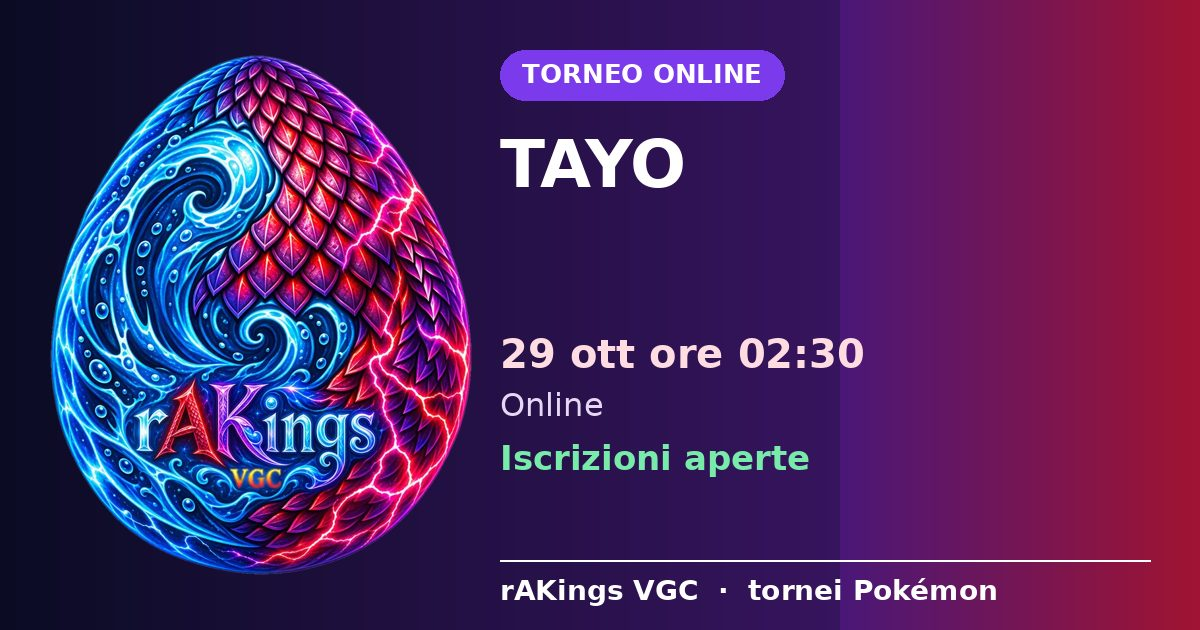
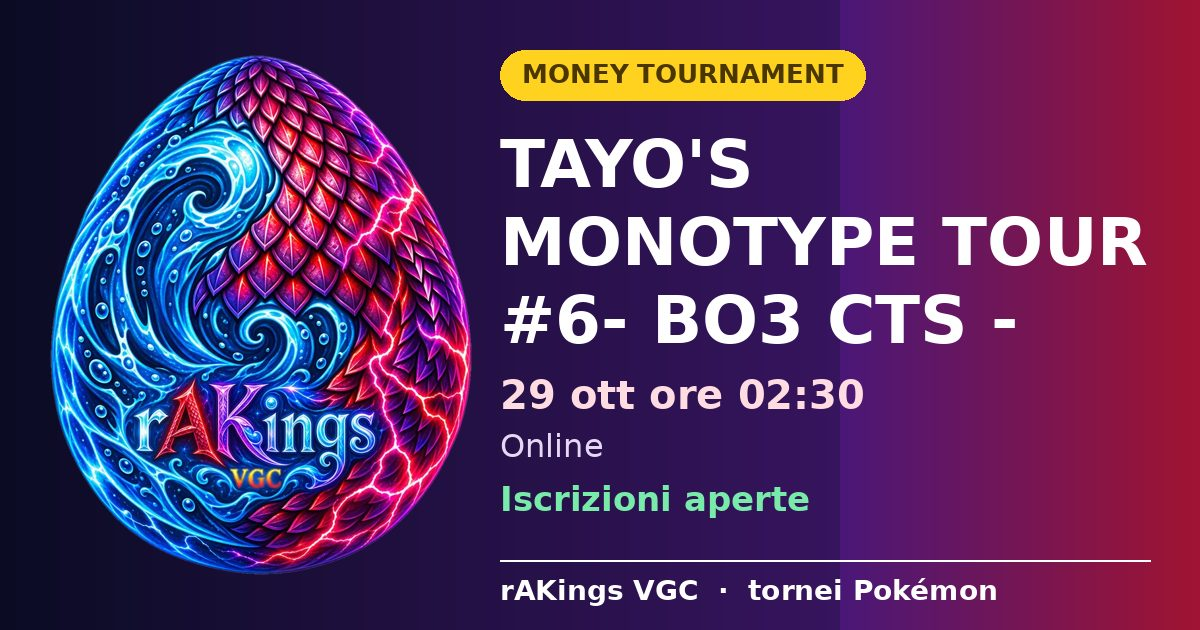
Aggiorna tornei

diff --git a/e/1809g0g.html b/e/1809g0g.html
@@ -1,12 +1,12 @@
 <!doctype html>
-<html lang="it"><head><meta charset="utf-8"><title>TAYO · rAKings VGC</title>
+<html lang="it"><head><meta charset="utf-8"><title>TAYO&#x27;S MONOTYPE TOUR #6- BO3 CTS - $30/15 · rAKings VGC</title>
 <meta name="viewport" content="width=device-width,initial-scale=1"><meta name="robots" content="noindex">
 <meta property="og:type" content="website"><meta property="og:site_name" content="rAKings VGC">
-<meta property="og:title" content="TAYO · rAKings VGC"><meta property="og:description" content="Online · 29 ott ore 02:30">
+<meta property="og:title" content="TAYO&#x27;S MONOTYPE TOUR #6- BO3 CTS - $30/15 · rAKings VGC"><meta property="og:description" content="Money tournament · Online · 29 ott ore 02:30 · Premio: $3">
 <meta property="og:url" content="https://rakings.github.io/VGCrAKings/e/1809g0g.html"><meta property="og:image" content="https://rakings.github.io/VGCrAKings/e/1809g0g.jpg">
 <meta property="og:image:width" content="1200"><meta property="og:image:height" content="630">
-<meta name="twitter:card" content="summary_large_image"><meta name="twitter:title" content="TAYO · rAKings VGC">
-<meta name="twitter:description" content="Online · 29 ott ore 02:30"><meta name="twitter:image" content="https://rakings.github.io/VGCrAKings/e/1809g0g.jpg">
+<meta name="twitter:card" content="summary_large_image"><meta name="twitter:title" content="TAYO&#x27;S MONOTYPE TOUR #6- BO3 CTS - $30/15 · rAKings VGC">
+<meta name="twitter:description" content="Money tournament · Online · 29 ott ore 02:30 · Premio: $3"><meta name="twitter:image" content="https://rakings.github.io/VGCrAKings/e/1809g0g.jpg">
 <link rel="canonical" href="https://rakings.github.io/VGCrAKings/e/1809g0g.html">
 <script>location.replace("../index.html#e=1809g0g")</script></head>
 <body style="font-family:system-ui,sans-serif;background:#1d0b0d;color:#fff;text-align:center;padding:40px 16px">

diff --git a/e/12034rf.html b/e/12034rf.html
@@ -1,0 +1,13 @@
+<!doctype html>
+<html lang="it"><head><meta charset="utf-8"><title>Cursed Classic Cup (Halloween Special) · rAKings VGC</title>
+<meta name="viewport" content="width=device-width,initial-scale=1"><meta name="robots" content="noindex">
+<meta property="og:type" content="website"><meta property="og:site_name" content="rAKings VGC">
+<meta property="og:title" content="Cursed Classic Cup (Halloween Special) · rAKings VGC"><meta property="og:description" content="Online · 31 ott ore 19:00">
+<meta property="og:url" content="https://rakings.github.io/VGCrAKings/e/12034rf.html"><meta property="og:image" content="https://rakings.github.io/VGCrAKings/e/12034rf.jpg">
+<meta property="og:image:width" content="1200"><meta property="og:image:height" content="630">
+<meta name="twitter:card" content="summary_large_image"><meta name="twitter:title" content="Cursed Classic Cup (Halloween Special) · rAKings VGC">
+<meta name="twitter:description" content="Online · 31 ott ore 19:00"><meta name="twitter:image" content="https://rakings.github.io/VGCrAKings/e/12034rf.jpg">
+<link rel="canonical" href="https://rakings.github.io/VGCrAKings/e/12034rf.html">
+<script>location.replace("../index.html#e=12034rf")</script></head>
+<body style="font-family:system-ui,sans-serif;background:#1d0b0d;color:#fff;text-align:center;padding:40px 16px">
+<p>Apro rAKings VGC…</p><p><a style="color:#ff6b78" href="../index.html#e=12034rf">Apri il torneo nell'app</a></p></body></html>
